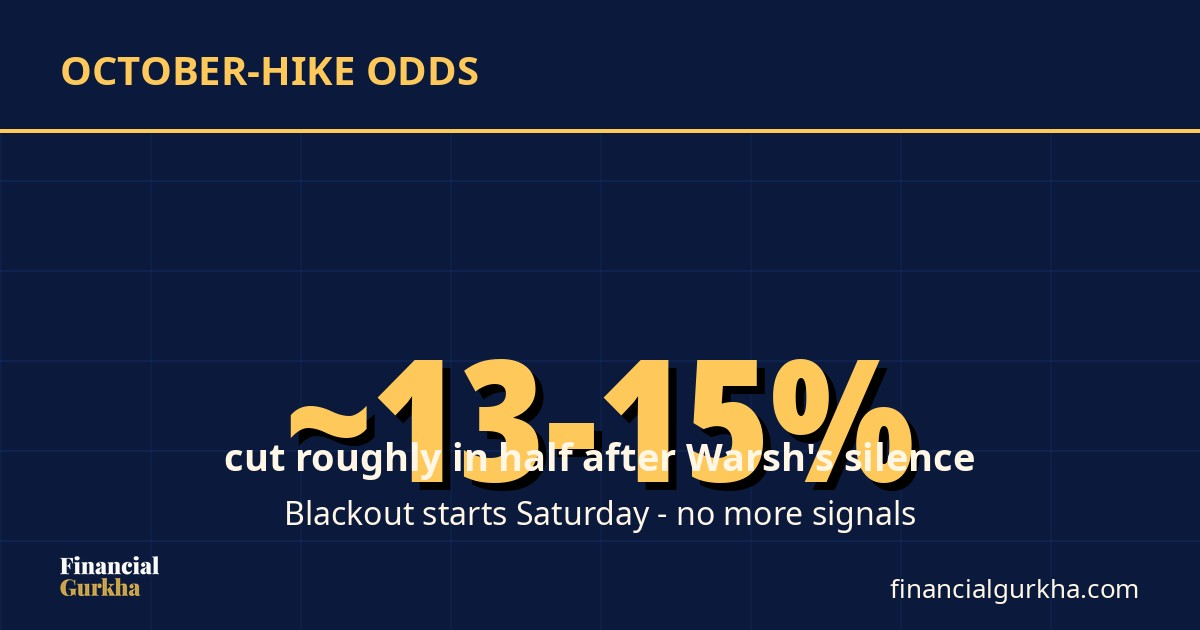
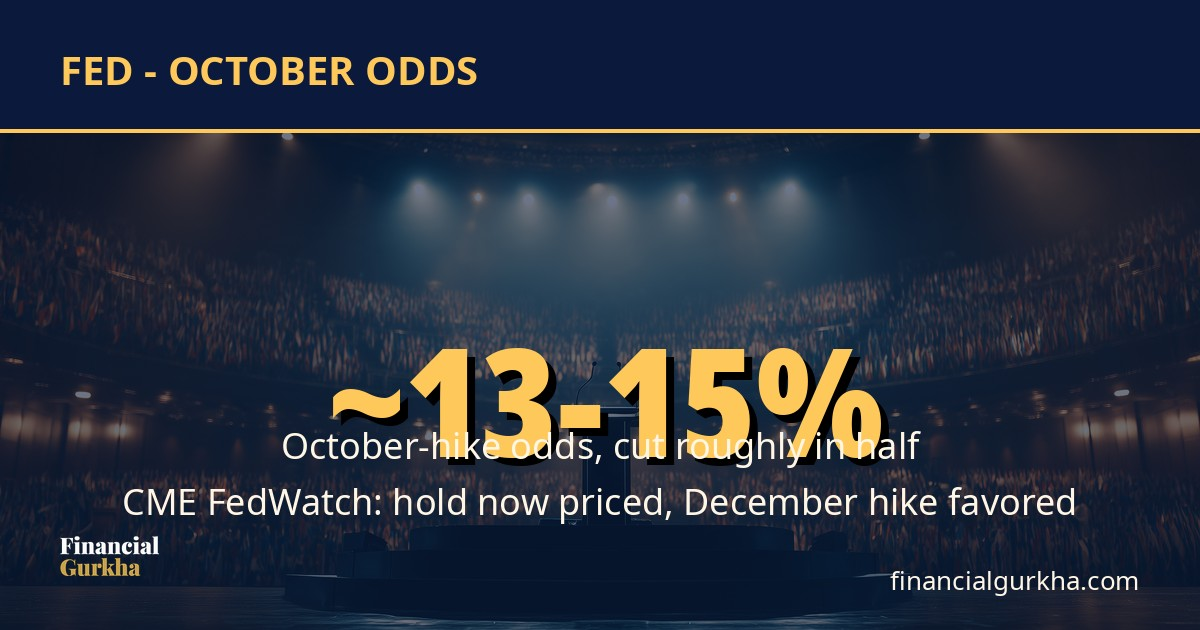
News: Warsh/IMF rebuild (verified sources, Midjourney art, v1 spec)

diff --git a/src/app/news/items/2026-10-16-warsh-blackout-last-word.md b/src/app/news/items/2026-10-16-warsh-blackout-last-word.md
@@ -5,46 +5,53 @@ dek: "The Fed Chair gave no rate signal in Bangkok. Markets read the silence as 
 tags: ['Fed', 'Interest Rates', 'FOMC', 'Inflation']
 image: 'https://financialgurkha.com/news/warsh-blackout-oct-2026.jpg'
 sources:
-  - name: "WSJ — Fed Chair Warsh at IMF gathering, Bangkok (Oct 16, 2026)"
-    url: "https://www.wsj.com/economy/central-banking/fed-chair-warsh-imf-bangkok"
-  - name: "Reuters — U.S. import prices surge; industrial production (Oct 16, 2026)"
+  - name: "Reuters — Fed's Warsh gives no hint on October policy decision (Oct 16, 2026)"
+    url: "https://www.reuters.com/markets/asia/feds-warsh-gives-no-hint-october-policy-decision-2026-10-16/"
+  - name: "USA Today — What's next for interest rates? Fed Chair Warsh wants price stability (Oct 16, 2026)"
+    url: "https://www.usatoday.com/story/money/economy/2026/10/16/federal-reserve-kevin-warsh-imf-price-stability-rates/92279509007/"
+  - name: "MarketWatch via Morningstar — What Warsh said and didn't say in Bangkok (Oct 16, 2026)"
+    url: "https://www.morningstar.com/news/marketwatch/20261016104/here-are-the-key-things-fed-chairman-kevin-warsh-said-and-didnt-say-while-americans-were-sleeping-thursday-night"
+  - name: "Reuters — U.S. manufacturing output rises in September (Oct 16, 2026)"
     url: "https://www.reuters.com/business/us-manufacturing-output-rises-september-2026-10-16/"
-  - name: "Dow Jones via Morningstar — U.S. Industrial Production Increases in September (Oct 16, 2026)"
-    url: "https://www.morningstar.com/news/dow-jones/202610163794/us-industrial-production-increases-in-september"
 ---
 
 ## What happened
 
-Fed Chair Warsh spoke overnight at the IMF gathering in Bangkok — his last scheduled appearance before the Fed's communications blackout begins tomorrow — and said nothing about rates. The paraphrased message, per the WSJ: he doesn't prejudge meetings and the Fed is no longer in the business of previewing decisions. Markets read the silence as dovish: October-hike odds were cut roughly in half, to about **13–15%** from ~26–30% on CME FedWatch.
+Fed Chair Kevin Warsh had one last chance to shape expectations before the blackout — a fireside chat with IMF Managing Director Kristalina Georgieva at the IMF-World Bank annual meetings in Bangkok — and he chose silence. "I don't prejudge meetings. I don't believe in saying now what I might do at the meetings that we have in the balance of this year," he said, per Reuters. When Georgieva joked that he had disappointed half the audience, Warsh replied: "It's a new chapter at the Fed. We're not in that business anymore."
 
-He did offer one macro frame worth noting: the AI build-out is a "massive investment surge" — a future positive supply shock, though the path there will be "very bumpy."
+Markets read the silence as dovish. October-hike odds were cut roughly in half, to about **13–15%** from ~26–30% on CME FedWatch. Most traders now bet the committee holds the 3.75%–4% range steady on October 28 and delivers the next quarter-point hike in December.
+
+![Warsh: no signal. Data: hot.](https://financialgurkha.com/news/warsh-highlight-1.jpg)
 
 ## The data pushed back
 
-This morning's prints told a hotter story:
+Friday morning's prints told a hotter story:
 
 | Print | Actual | Expected |
 |---|---|---|
 | Import prices (m/m) | **+1.1%** | +0.8% |
 | Import prices (y/y) | **8.1%** — biggest since July 2022 | — |
-| Export prices (m/m) | **+2.2%** | +1.0% |
 | Industrial production (m/m) | **+0.7%** | +0.4% |
 | Capacity utilization | **76.9%** | 76.5% |
 
-Industrial production has now risen six straight months, up 2.2% year-on-year — the fastest pace in about four years. Manufacturing output rebounded 0.3%, led by semiconductors and related components.
-
-![Warsh: no signal. Data: hot.](https://financialgurkha.com/news/warsh-highlight-1.jpg)
+Industrial production has now risen six straight months, up 2.2% year-on-year — the fastest pace in about four years. Manufacturing output rebounded 0.3%, led by semiconductors. And the inflation backdrop is unforgiving: September CPI ran 3.7%, PPI 6.3% y/y — both well above the Fed's 2% target.
 
 ## The tension
 
-This is the whole October debate in one morning: a Chair who refuses to signal (dovish read) against trade prices running at multi-year highs and factories humming (hawkish read). The blackout starts Saturday, so there will be no more official guidance before the **October 27–28 FOMC meeting** — where policymakers will vote on September CPI (3.7%) and PPI (6.3% y/y) alone, since September PCE doesn't land until the 29th.
+This is the whole October debate in one morning: a Chair who refuses to signal (dovish read) against trade prices running at multi-year highs and factories humming (hawkish read). The September minutes showed a majority of officials still expect one more hike this year — but New York Fed President Williams and Vice Chair Jefferson have both said there's no urgency for a back-to-back move.
+
+The blackout starts Saturday, so there will be no more official guidance before the **October 27–28 FOMC meeting**.
 
 ![Silence vs hot data: the whole October debate in one image](https://financialgurkha.com/news/warsh-highlight-3.jpg)
 
-![October-hike odds: ~13-15%, cut in half](https://financialgurkha.com/news/warsh-highlight-2.jpg)
+## The AI subplot
+
+Warsh's one real macro message in Bangkok was about AI. He called the AI investment surge "probably the most important thing that's happening in the global economy on the upside" — inflationary in the short term (it bids up memory chips and power demand) but potentially disinflationary over time through productivity. He also revealed a Fed task force will hold a **public hearing in November** to study AI's impact on the labor market. That's a new data point for the December decision.
 
 ## Our take
 
-The market is pricing the silence, not the data — which is exactly the kind of divergence that makes the next two weeks tradeable. If Warsh wanted to kill the hike chatter, he had every opportunity in Bangkok; instead he chose deliberate opacity. But import prices at 8.1% y/y are the kind of number that makes a data-dependent Fed uncomfortable sitting still. Watch the 10-year (now ~5.03%, lowest since late September): if yields keep drifting down while the data runs hot, something has to give — and it's usually the pricing, not the data.
+The market is pricing the silence, not the data — which is exactly the kind of divergence that makes the next two weeks tradeable. Warsh said the world has "broadly conformed" to the Fed's expectations, and he clearly wanted to give nothing away. But import prices at 8.1% y/y are the kind of number that makes a data-dependent Fed uncomfortable sitting still. Watch the 10-year (now ~5.03%, lowest since late September): if yields keep drifting down while the data runs hot, something has to give — and it's usually the pricing, not the data.
+
+![October-hike odds: ~13-15%, cut in half](https://financialgurkha.com/news/warsh-highlight-2.jpg)
 
 *This is a news summary, not financial advice. Nothing here is a recommendation to buy, sell, or hold anything.*
